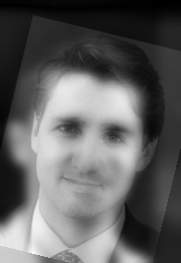
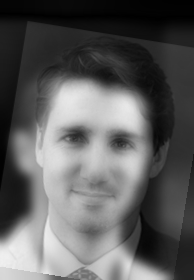
part 2 done and working properly

diff --git a/TP2/part1.py b/TP2/part1.py
@@ -3,7 +3,7 @@ from matplotlib import pyplot as plt
 from TP2.imageAlignement import align_images, norm_image
 from TP2.hybridImage import hybridImage
 from scipy import ndimage, misc
-import numpy
+import numpy as np
 
 albert = cv2.imread('justin_trudeau.jpg', cv2.IMREAD_GRAYSCALE)
 marilyn = cv2.imread('jeff_lalonde.jpg', cv2.IMREAD_GRAYSCALE)
@@ -14,11 +14,25 @@ cutoff_low = arbitrary_value_1
 cutoff_high = arbitrary_value_2
 
 albert, marilyn = align_images(albert, marilyn)
-hybrid_img = hybridImage(marilyn, albert, cutoff_low, cutoff_high)
+hybrid_img, low_pass_img, high_pass_img = hybridImage(marilyn, albert, cutoff_low, cutoff_high)
 
 hybrid_img = cv2.convertScaleAbs(hybrid_img)
 misc.imsave('hybrid5.png', hybrid_img)
 
-plt.imshow(hybrid_img, cmap='gray')
-plt.title('hybrid image')
+fig = plt.figure()
+a=fig.add_subplot(2,3,1)
+imgplot = plt.imshow(np.log(np.abs(np.fft.fftshift(np.fft.fft2(albert)))))
+a.set_title('TF Justin Trudeau Originale')
+a=fig.add_subplot(2,3,2)
+imgplot2 = plt.imshow(np.log(np.abs(np.fft.fftshift(np.fft.fft2(marilyn)))))
+a.set_title('TF Jean-Francois Lalonde Originale')
+a=fig.add_subplot(2,3,3)
+imgplot3 = plt.imshow(np.log(np.abs(np.fft.fftshift(np.fft.fft2(low_pass_img)))))
+a.set_title('TF Jean-François Lalonde Low pass')
+a=fig.add_subplot(2,3,4)
+imgplot3 = plt.imshow(np.log(np.abs(np.fft.fftshift(np.fft.fft2(high_pass_img)))))
+a.set_title('TF Justin Trudeau High pass')
+a=fig.add_subplot(2,3,5)
+imgplot3 = plt.imshow(np.log(np.abs(np.fft.fftshift(np.fft.fft2(hybrid_img)))))
+a.set_title('TF Hybrid Image')
 plt.show()

diff --git a/TP2/part2.py b/TP2/part2.py
@@ -1,0 +1,27 @@
+import cv2
+from matplotlib import pyplot as plt
+from TP2.imageAlignement import align_images, norm_image
+from TP2.hybridImage import hybridImage, lowPass
+from scipy import ndimage, misc
+import numpy as np
+
+lincoln = cv2.imread('hybrid5.png', cv2.IMREAD_GRAYSCALE)
+
+arbitrary_value_1 = 2
+arbitrary_value_2 = 2
+cutoff_low = arbitrary_value_1
+cutoff_high = arbitrary_value_2
+
+
+for i in range(8):
+    sigma = pow(cutoff_low ,i)
+    low_pass_img = lowPass(lincoln, sigma)
+    print("sigma: ",sigma, "i: ", i)
+
+    low_pass_img = cv2.convertScaleAbs(low_pass_img)
+    misc.imsave('gaussian_pile_custom'+str(i)+'.png', low_pass_img)
+
+for i in range(7):
+    current_gaussian = cv2.imread('gaussian_pile_custom' + str(i)+'.png', cv2.IMREAD_GRAYSCALE)
+    current_laplacian = cv2.imread('gaussian_pile_custom' + str(i+1)+'.png', cv2.IMREAD_GRAYSCALE) - current_gaussian
+    misc.imsave('laplacian_pile_custom'+str(i)+'.png', current_laplacian)

diff --git a/TP2/hybridImage.py b/TP2/hybridImage.py
@@ -9,7 +9,7 @@ from TP2.imageAlignement import norm_image
 
 
 def lowPass(imageMatrix, sigma):
-    lowpass_img = cv2.GaussianBlur(imageMatrix, (91, 91), sigma)
+    lowpass_img = cv2.GaussianBlur(imageMatrix, (41, 41), sigma)
     lowpass_img = lowpass_img.astype(np.int)
     return lowpass_img
 
@@ -25,4 +25,4 @@ def hybridImage(img1, img2, cutoff_low, cutoff_high):
     img1 = lowPass(img1, cutoff_low)
     print(img2)
     print(img1)
-    return cv2.addWeighted(img1, 1, img2, 0.4, 0)
+    return cv2.addWeighted(img1, 1, img2, 0.4, 0), img1, img2
